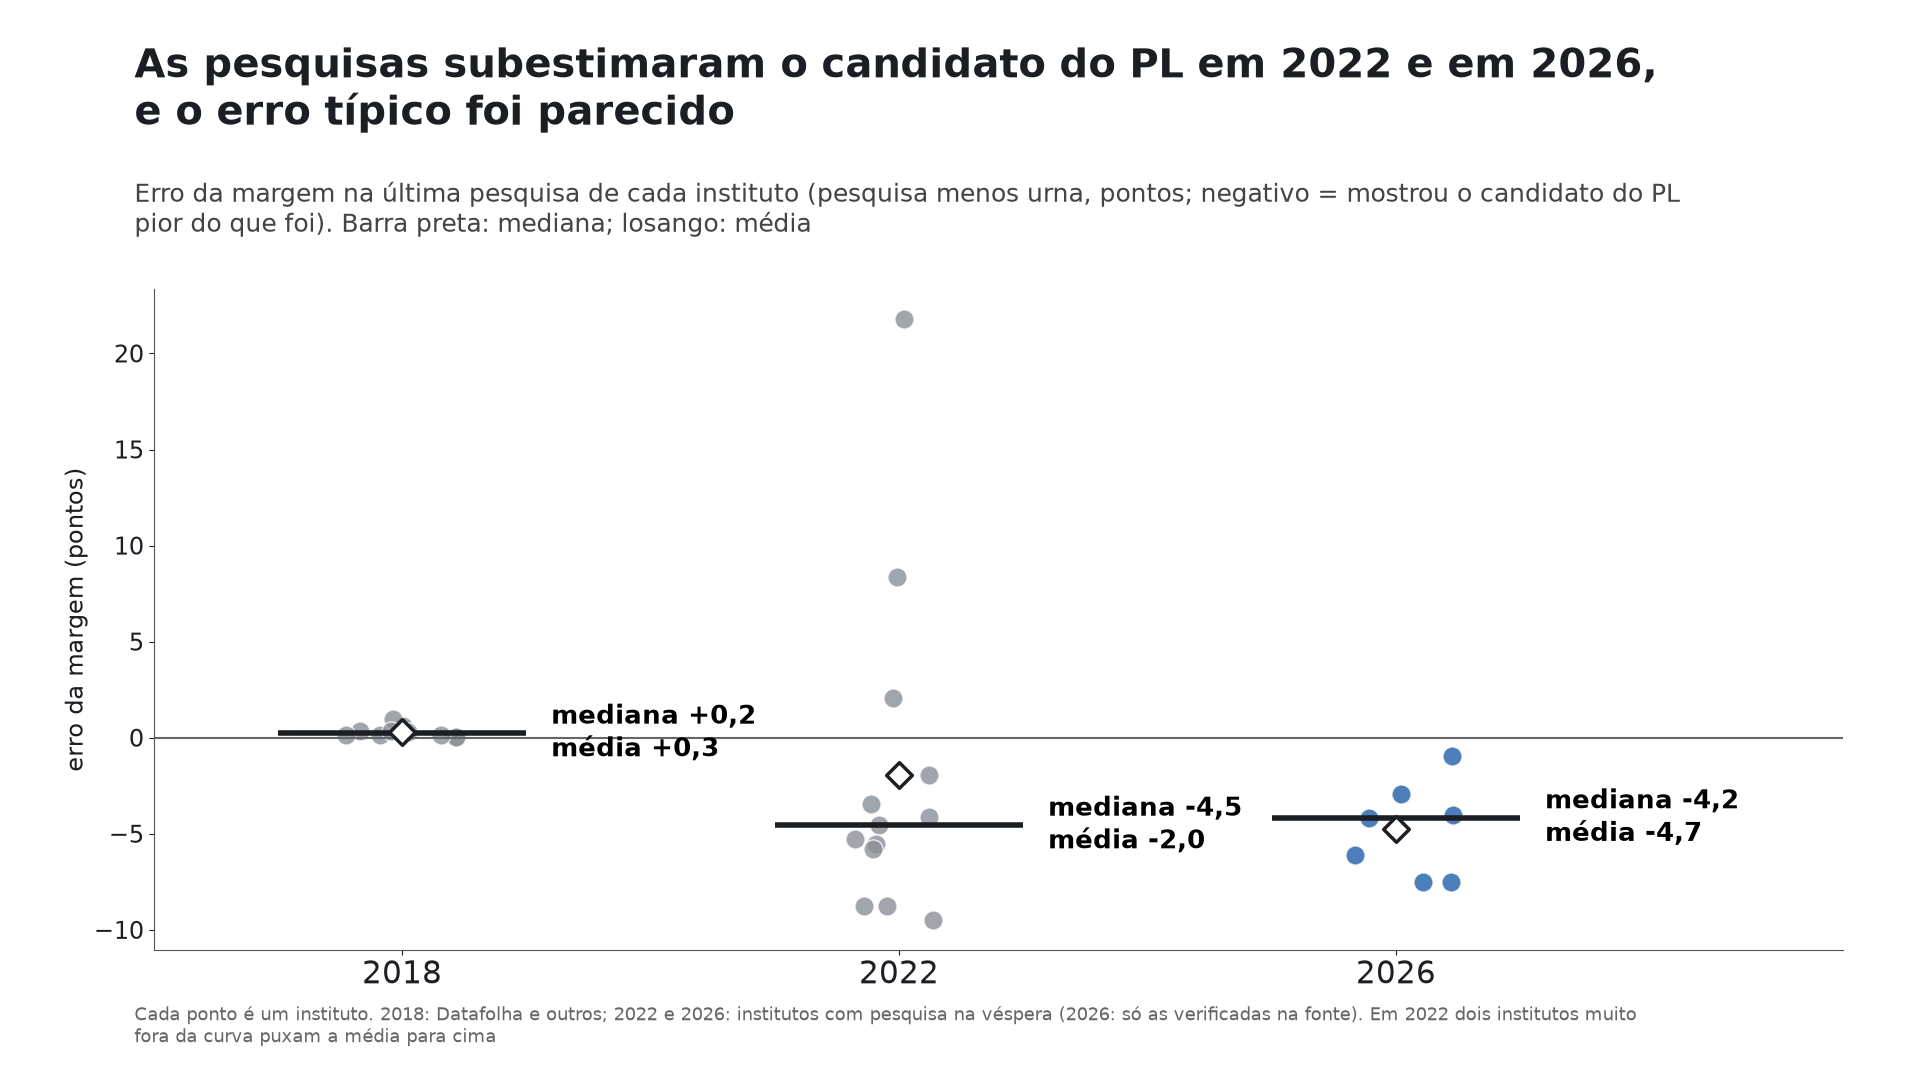
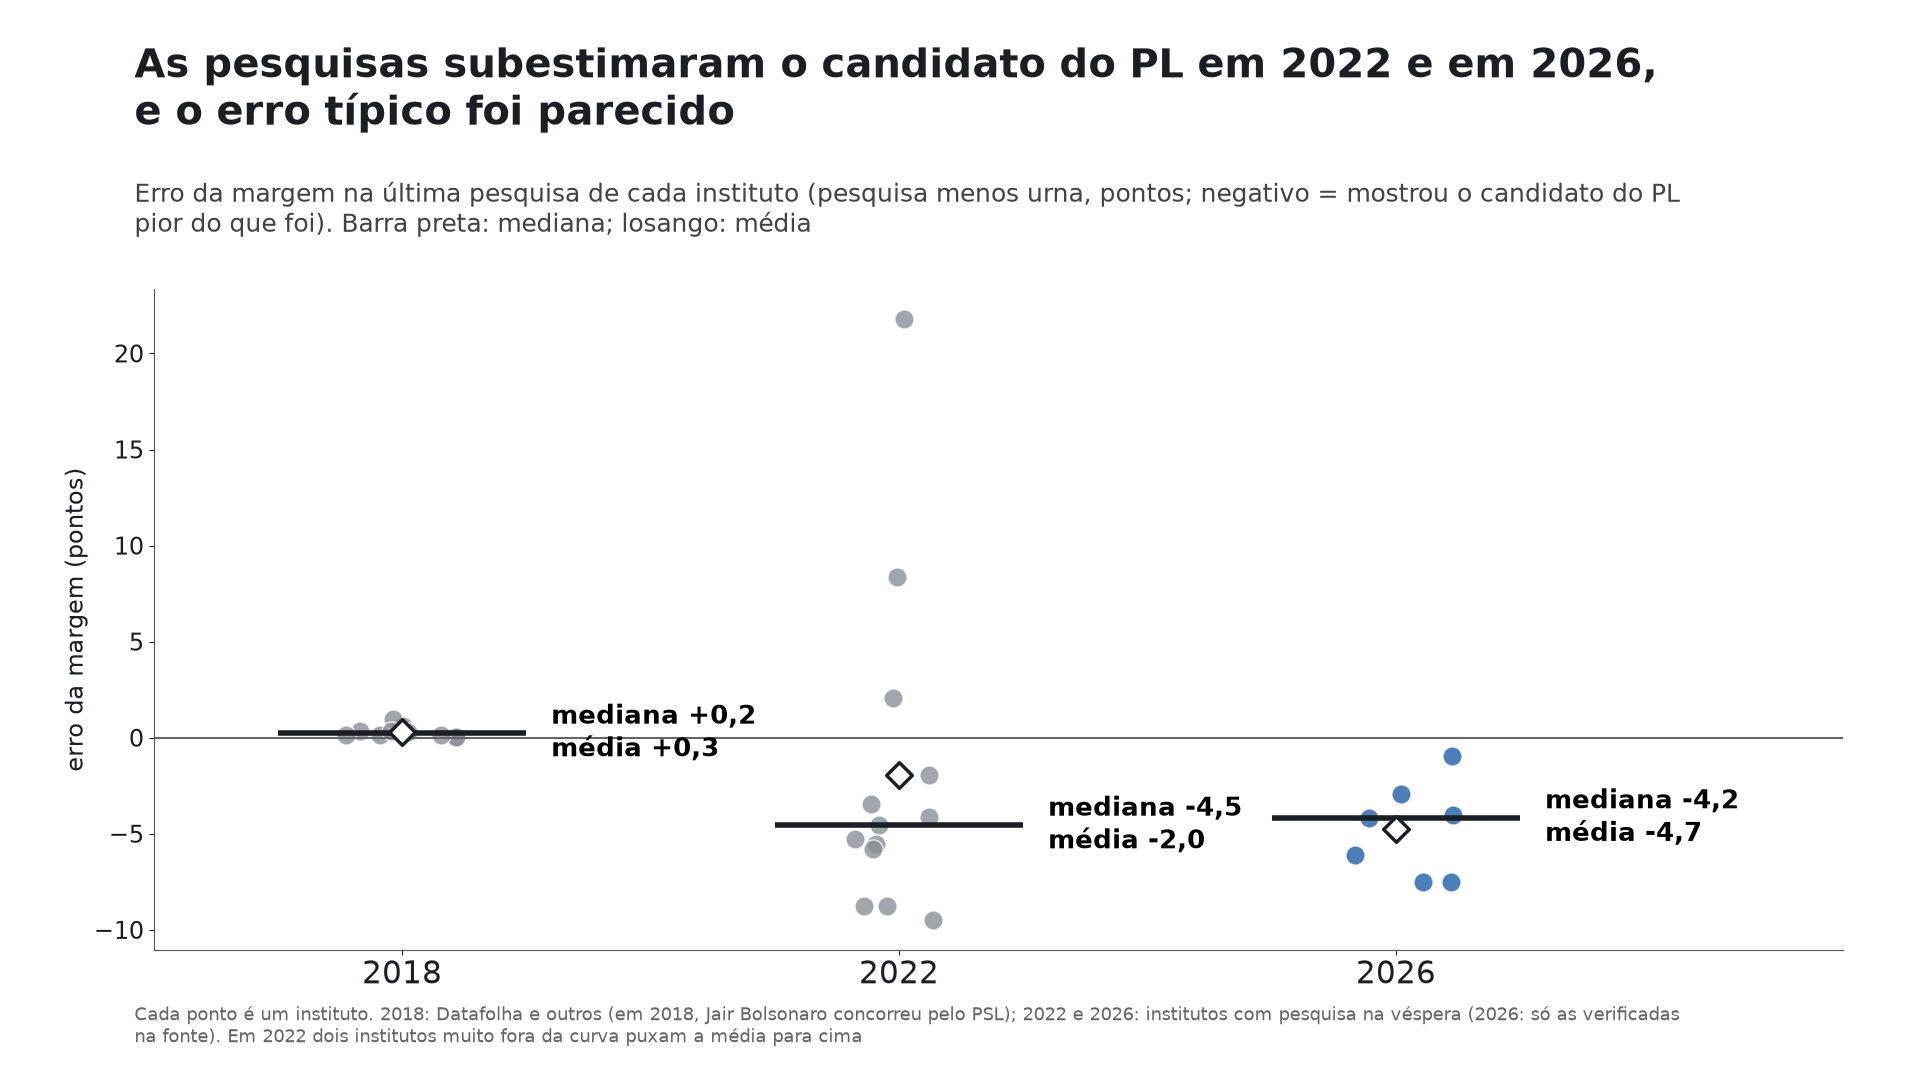
Rotulos: 2018 pelo PSL no relatorio e no grafico 08; tres criterios de estabilidade no grafico 05
Achados ao escrever o roteiro do video. Nenhum numero muda; registro em docs/CORRECOES.md.

Changed region(s): [[0.0625, 0.9167, 0.875, 0.9778]]

diff --git a/ferramentas/analise-8-graficos.py b/ferramentas/analise-8-graficos.py
@@ -131,7 +131,7 @@ def g05():
     on = ["Lula", "Jair", "Ciro, Tebet e outros", "Branco/nulo", "Abstenção"]
     dn = ["Flávio", "Lula", "Caiado", "Cury", "Renan", "Zema", "Outros", "Branco/nulo", "Abstenção"]
     M = t.pivot(index="origem", columns="destino", values="B").loc[om, dm].to_numpy()
-    f, ax = fig("Para onde foi o voto de 2022 (estimativa ecológica)", "De cada 100 eleitores de 2022 (linhas), quantos aparecem em cada destino de 2026 (colunas). Inferência entre lugares, não o voto de ninguém. Em preto, fluxos estáveis entre regiões e especificações; em cinza, fluxos que variam demais e não entram nas conclusões", "Regressão ecológica com restrições, 5.570 municípios, 300 reamostragens. Estável = as duas especificações diferem em até 3 pontos e a amplitude entre as cinco regiões é de até 15 (resultados/a4_estabilidade.csv)")
+    f, ax = fig("Para onde foi o voto de 2022 (estimativa ecológica)", "De cada 100 eleitores de 2022 (linhas), quantos aparecem em cada destino de 2026 (colunas). Inferência entre lugares, não o voto de ninguém. Em preto, fluxos estáveis entre regiões e especificações; em cinza, fluxos que variam demais e não entram nas conclusões", "Regressão ecológica com restrições, 5.570 municípios, 300 reamostragens. Estável = as duas especificações diferem em até 3 pontos, a amplitude entre as cinco regiões é de até 15 e o valor nacional fica dentro do intervalo das regiões (resultados/a4_estabilidade.csv)")
     ax.imshow(M, cmap="Blues", vmin=0, vmax=1)
     ax.set_xticks(range(9), dn, rotation=25, ha="right", fontsize=16)
     ax.set_yticks(range(5), on, fontsize=18)
@@ -188,7 +188,7 @@ def g07():
 def g08():
     e = pd.read_csv(RES / "b2_erro_por_instituto.csv")
     e = e[e.verificada]
-    f, ax = fig("As pesquisas subestimaram o candidato do PL em 2022 e em 2026, e o erro típico foi parecido", "Erro da margem na última pesquisa de cada instituto (pesquisa menos urna, pontos; negativo = mostrou o candidato do PL pior do que foi). Barra preta: mediana; losango: média", "Cada ponto é um instituto. 2018: Datafolha e outros; 2022 e 2026: institutos com pesquisa na véspera (2026: só as verificadas na fonte). Em 2022 dois institutos muito fora da curva puxam a média para cima")
+    f, ax = fig("As pesquisas subestimaram o candidato do PL em 2022 e em 2026, e o erro típico foi parecido", "Erro da margem na última pesquisa de cada instituto (pesquisa menos urna, pontos; negativo = mostrou o candidato do PL pior do que foi). Barra preta: mediana; losango: média", "Cada ponto é um instituto. 2018: Datafolha e outros (em 2018, Jair Bolsonaro concorreu pelo PSL); 2022 e 2026: institutos com pesquisa na véspera (2026: só as verificadas na fonte). Em 2022 dois institutos muito fora da curva puxam a média para cima")
     rng = np.random.default_rng(1)
     for i, a in enumerate((2018, 2022, 2026)):
         x = e[e.ano == a]

diff --git a/ferramentas/analise-9-relatorio.py b/ferramentas/analise-9-relatorio.py
@@ -123,7 +123,7 @@ def relatorio() -> str:
     tab_porte.columns = ["Porte do município", "Contribuição (pontos)", "% da virada"]
     top = ufs[ufs.uf != "ZZ"].head(3)
     base = ufs[ufs.uf != "ZZ"].tail(3)
-    tab_res = pd.DataFrame({"": ["Candidato do PL", "Lula (ou Haddad)", "Outros", "Margem (PL menos PT), pontos", "Abstenção, com o exterior"],
+    tab_res = pd.DataFrame({"": ["Candidato do PL (em 2018, Jair Bolsonaro pelo PSL)", "Lula (ou Haddad)", "Outros", "Margem (PL menos PT), pontos", "Abstenção, com o exterior"],
                             "2018": [pc(a1["pl_pct_2018"]), pc(a1["pt_pct_2018"]), pc(100 - a1["pl_pct_2018"] - a1["pt_pct_2018"]), sg(a1["margem_2018"]), pc(abst[2018])],
                             "2022": [pc(a1["pl_pct_2022"]), pc(a1["pt_pct_2022"]), pc(100 - a1["pl_pct_2022"] - a1["pt_pct_2022"]), sg(a1["margem_2022"]), pc(abst[2022])],
                             "2026": [pc(a1["pl_pct_2026"]), pc(a1["pt_pct_2026"]), pc(100 - a1["pl_pct_2026"] - a1["pt_pct_2026"]), sg(a1["margem_2026"]), pc(abst[2026])]})

diff --git a/docs/CORRECOES.md b/docs/CORRECOES.md
@@ -3,3 +3,11 @@
 Erro achado **depois da publicação** entra aqui com o antes e o depois. Até a primeira publicação (07/out/2026) não houve nenhum.
 
 Os erros de método achados e corrigidos **durante a execução** estão em [`REVISAO_ADVERSARIAL.md`](REVISAO_ADVERSARIAL.md) (tabela do fim) e as emendas ao pré-registro, em [`PRE_REGISTRO.md`](PRE_REGISTRO.md) §12, cada uma dizendo se foi feita antes ou depois de ver o resultado.
+
+## 08/out/2026 · rótulos achados ao escrever o roteiro do vídeo
+
+| Onde | Antes | Depois | Muda algum número? |
+|---|---|---|---|
+| `RELATORIO.md` §1, tabela do resultado | a linha "Candidato do PL" trazia o valor de 2018 sem ressalva | "Candidato do PL (em 2018, Jair Bolsonaro pelo PSL)": em 2018 o candidato concorreu pelo PSL | não |
+| gráfico `08_erro_dos_institutos` | o rodapé não dizia o partido de 2018 | rodapé com "em 2018, Jair Bolsonaro concorreu pelo PSL" | não |
+| gráfico `05_transicao_2022_2026` | o rodapé citava dois critérios de estabilidade | os três critérios, como manda a emenda 8 (o valor nacional dentro do intervalo das regiões) | não: a tabela e as conclusões já usavam os três |

diff --git a/RELATORIO.md b/RELATORIO.md
@@ -21,7 +21,7 @@
 
 |  | 2018 | 2022 | 2026 |
 |---|---|---|---|
-| Candidato do PL | 46,0% | 43,2% | 47,0% |
+| Candidato do PL (em 2018, Jair Bolsonaro pelo PSL) | 46,0% | 43,2% | 47,0% |
 | Lula (ou Haddad) | 29,3% | 48,4% | 45,2% |
 | Outros | 24,7% | 8,4% | 7,8% |
 | Margem (PL menos PT), pontos | +16,8 | -5,2 | +1,9 |
